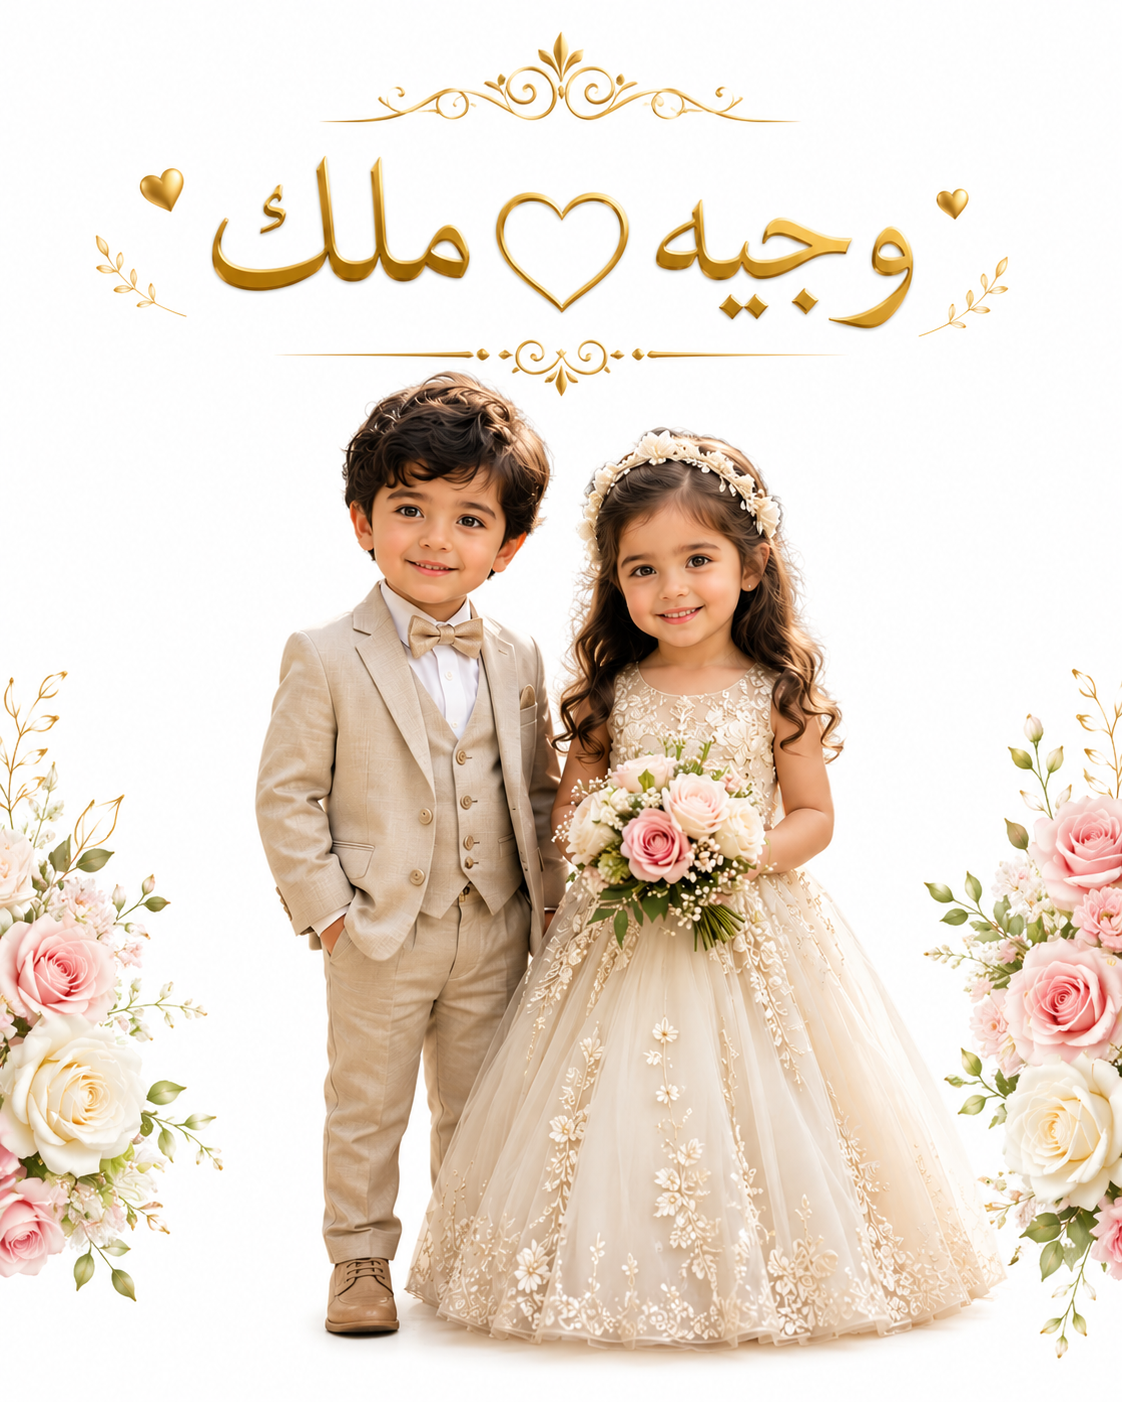
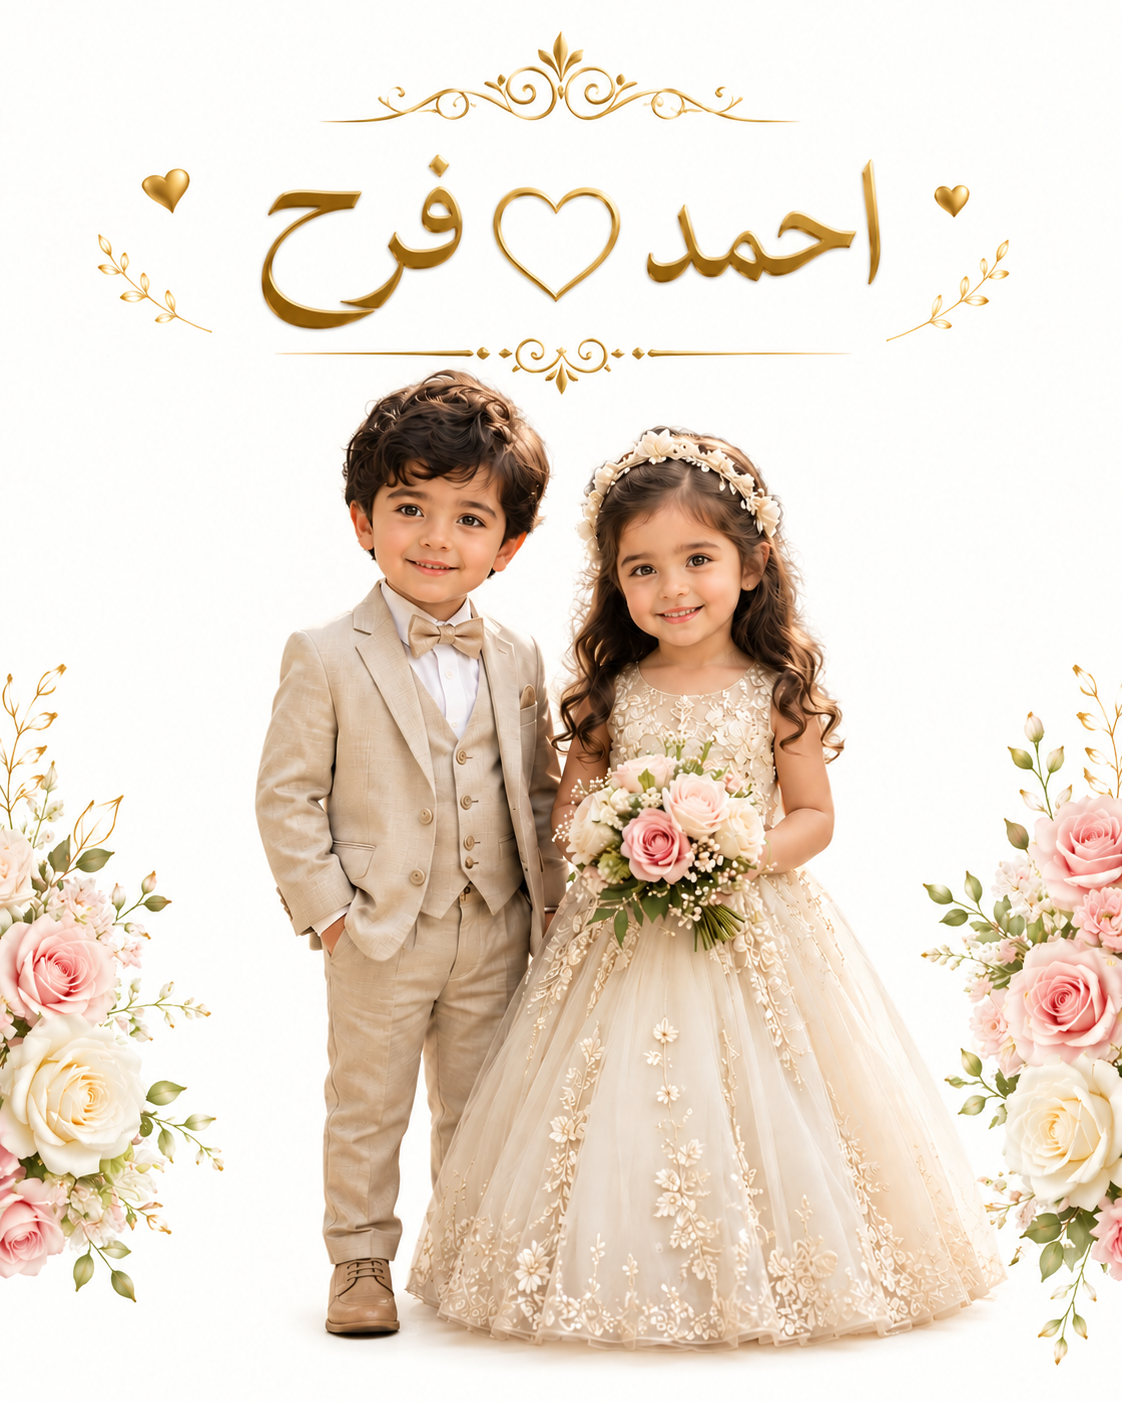
first commit

diff --git a/index.html b/index.html
@@ -4,20 +4,20 @@
 <head>
     <meta charset="UTF-8">
     <meta name="viewport" content="width=device-width, initial-scale=1.0">
-  <title>وجيه ♥ ملك</title>
+  <title>احمد ♥ فرح</title>
 
-  <meta property="og:title" content="وجيه ♥ ملك">
+  <meta property="og:title" content="احمد ♥ فرح">
       <link href="https://fonts.googleapis.com/css2?family=Tajawal:wght@300;400;500;700&display=swap" rel="stylesheet">
     <link rel="stylesheet" href="style.css">
 
-  <meta property="og:title" content="وجيه ♥ ملك">
+  <meta property="og:title" content="احمد ♥ فرح">
   <meta property="og:description" content="دعوتكم لحضور حفل الزفاف">
-  <meta property="og:image" content="https://wajeehmalakinvite.vercel.app/wag.png">
-  <meta property="og:url" content="https://wajeehmalakinvite.vercel.app">
+  <meta property="og:image" content="https://ahmedhamada-inky.vercel.app/wag.png">
+  <meta property="og:url" content="https://ahmedhamada-inky.vercel.app">
   <meta property="og:type" content="website">
     <script src="https://unpkg.com/@phosphor-icons/web"></script>
     <link rel="preconnect" href="https://fonts.googleapis.com">
-    <meta property="og:image" content="https://wajeehmalakinvite.vercel.app/wag.png">
+    <meta property="og:image" content="https://ahmedhamada-inky.vercel.app/wag.png">
     <link rel="preconnect" href="https://fonts.googleapis.com">
     <link rel="preconnect" href="https://fonts.gstatic.com" crossorigin>
     <link href="https://fonts.googleapis.com/css2?family=Aref+Ruqaa:wght@400;700&display=swap" rel="stylesheet">
@@ -197,7 +197,7 @@
                 <div class="message-bubble">"ألف مبروك، ربي يسعدكم ❤"</div>
                 <div class="message-bubble">"بارك الله لكما 💍"</div>
                 <div class="message-bubble">"زواج مبارك يا غالي 🎉"</div>
-                <div class="message-bubble">"الله يتمملكم على خير ✨"</div>
+                <div class="message-bubble">"الله يتمفرحم على خير ✨"</div>
             </div>
         </section>
    
@@ -294,7 +294,7 @@
     شُكرًا لِقَلبٍ رَافَقَنا وَما بَرِحا<br>
     وَحُبٌّ مِنّا لِمَن أَهدى وَواسينا
 <br>
-وجيه & ملك 
+احمد & فرح 
 </p>
 
     </div>

diff --git a/config.js b/config.js
@@ -166,7 +166,7 @@ details: [
 
   // ---- الصور والملفات ----
   images: {
-    momentsPhoto: "1.jpg",
+    momentsPhoto: "1.jpeg",
     storyPhoto: "2.jpg",
     qrCode: "qr.jpeg",
   },
